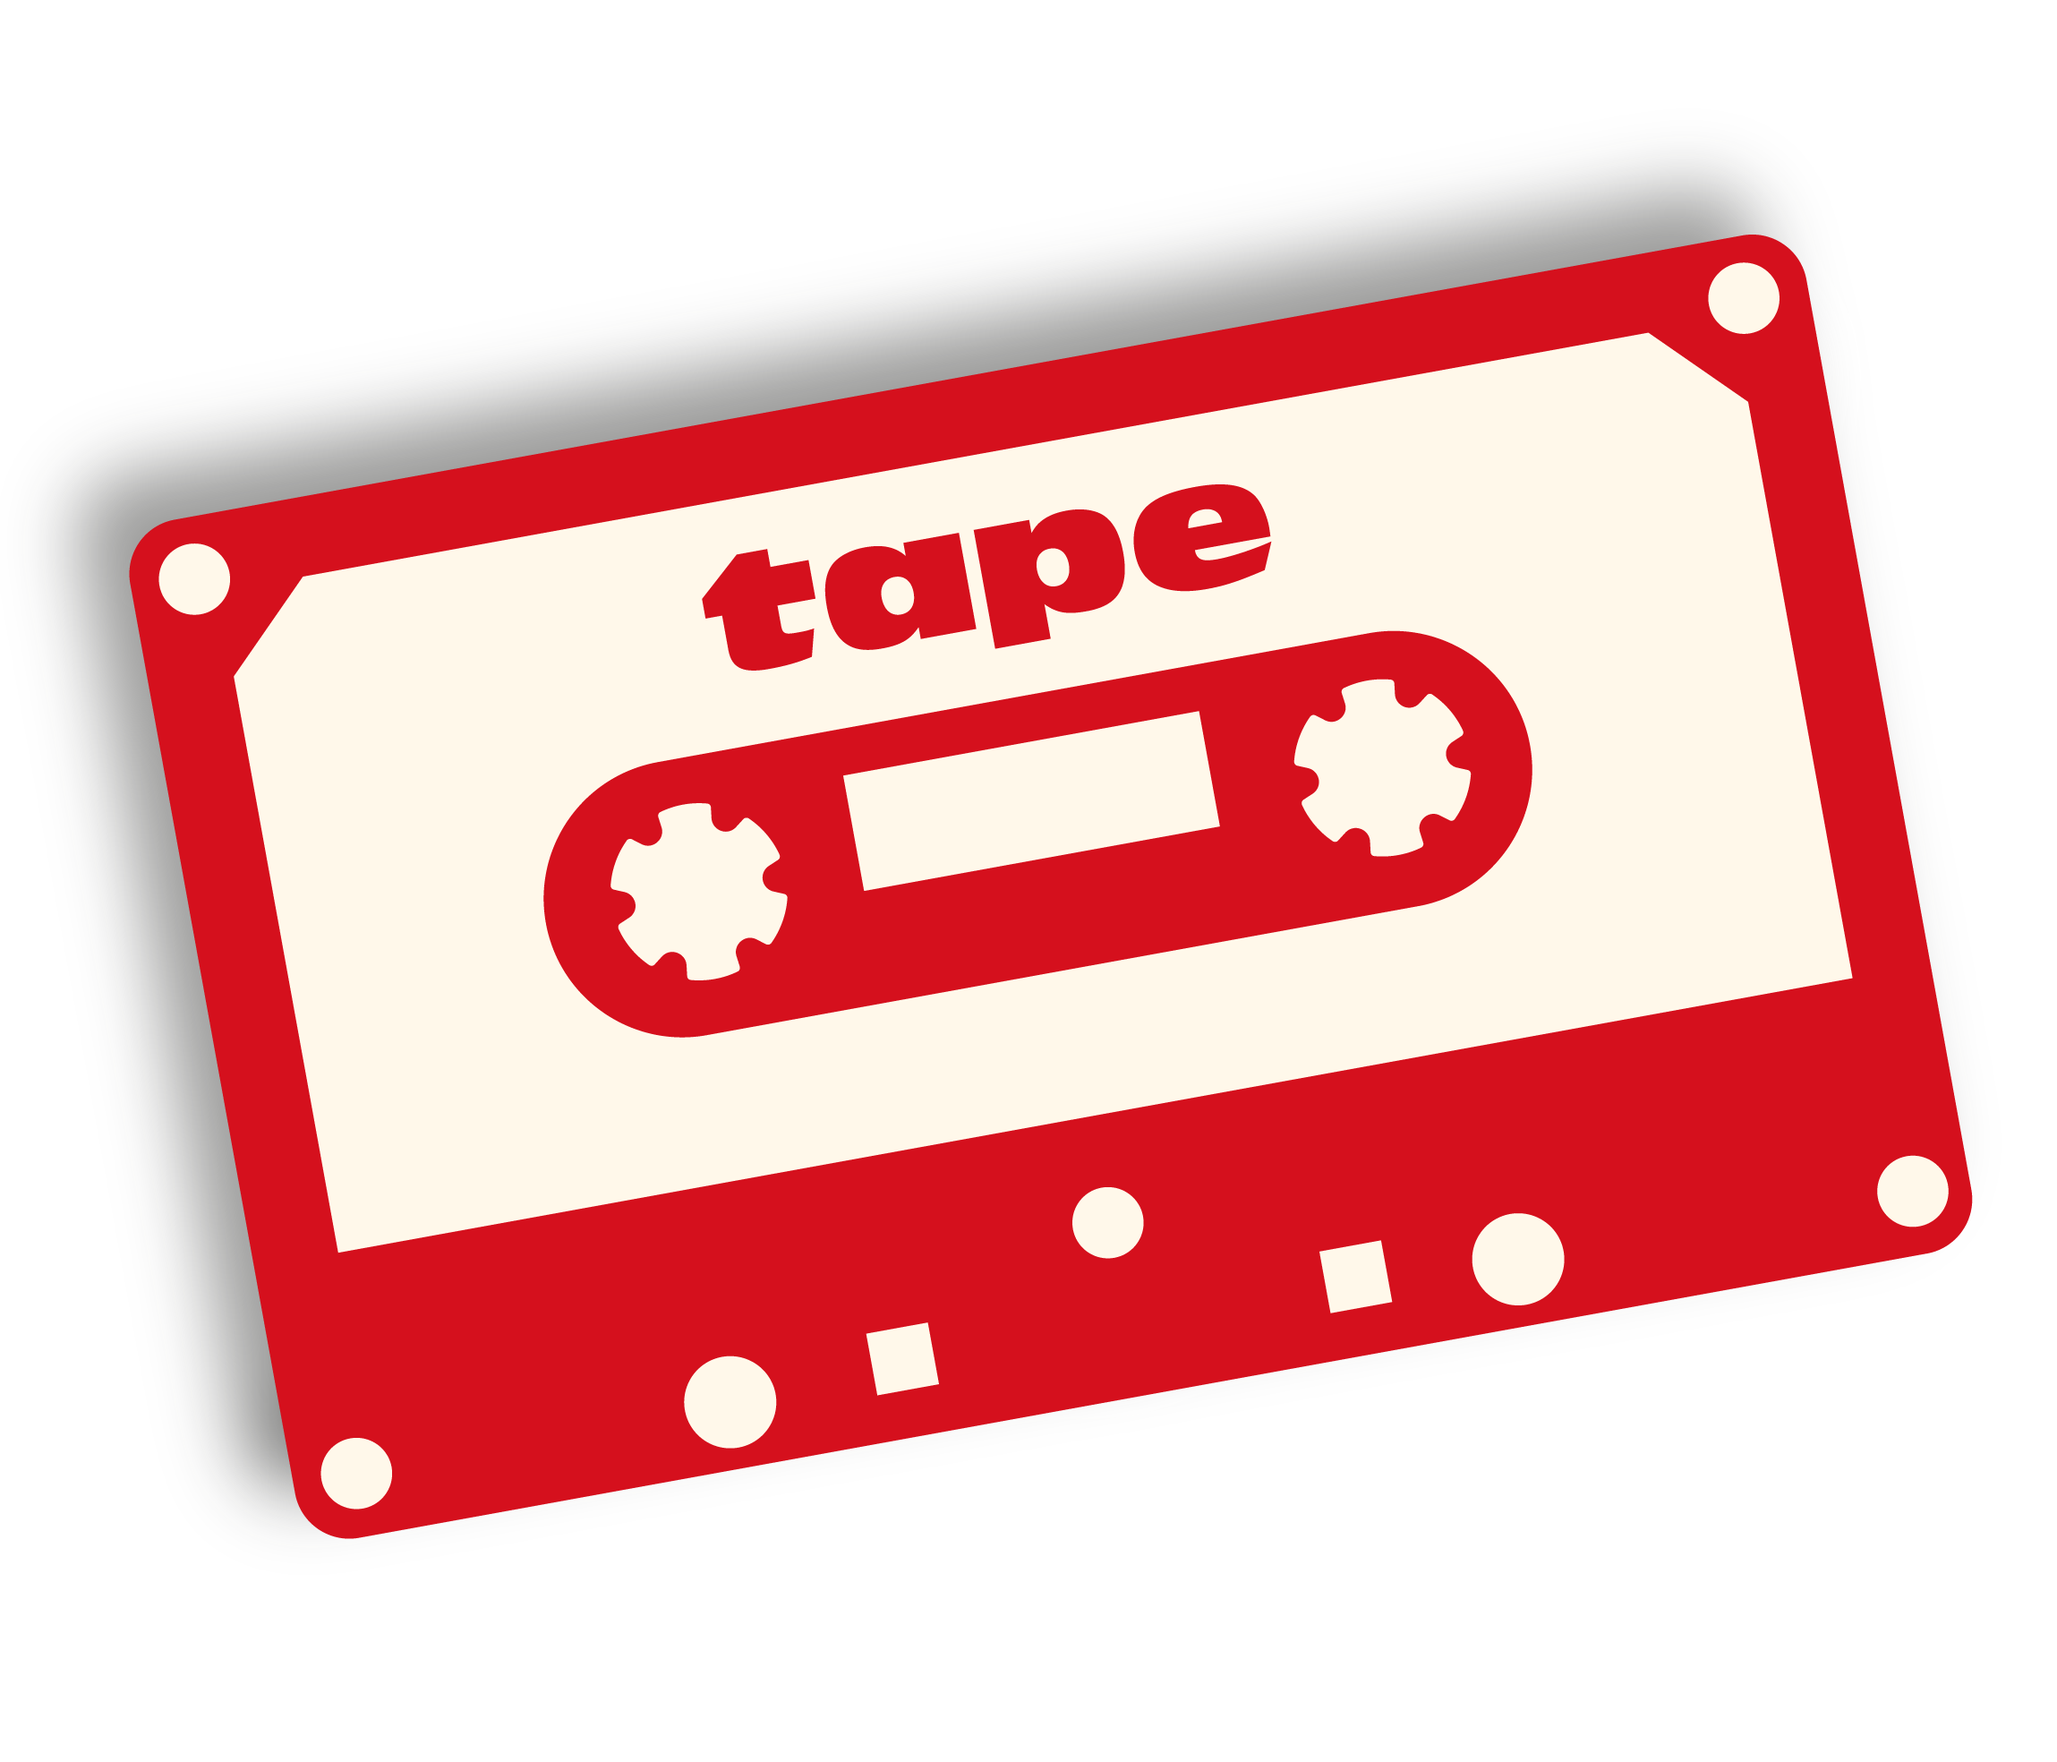
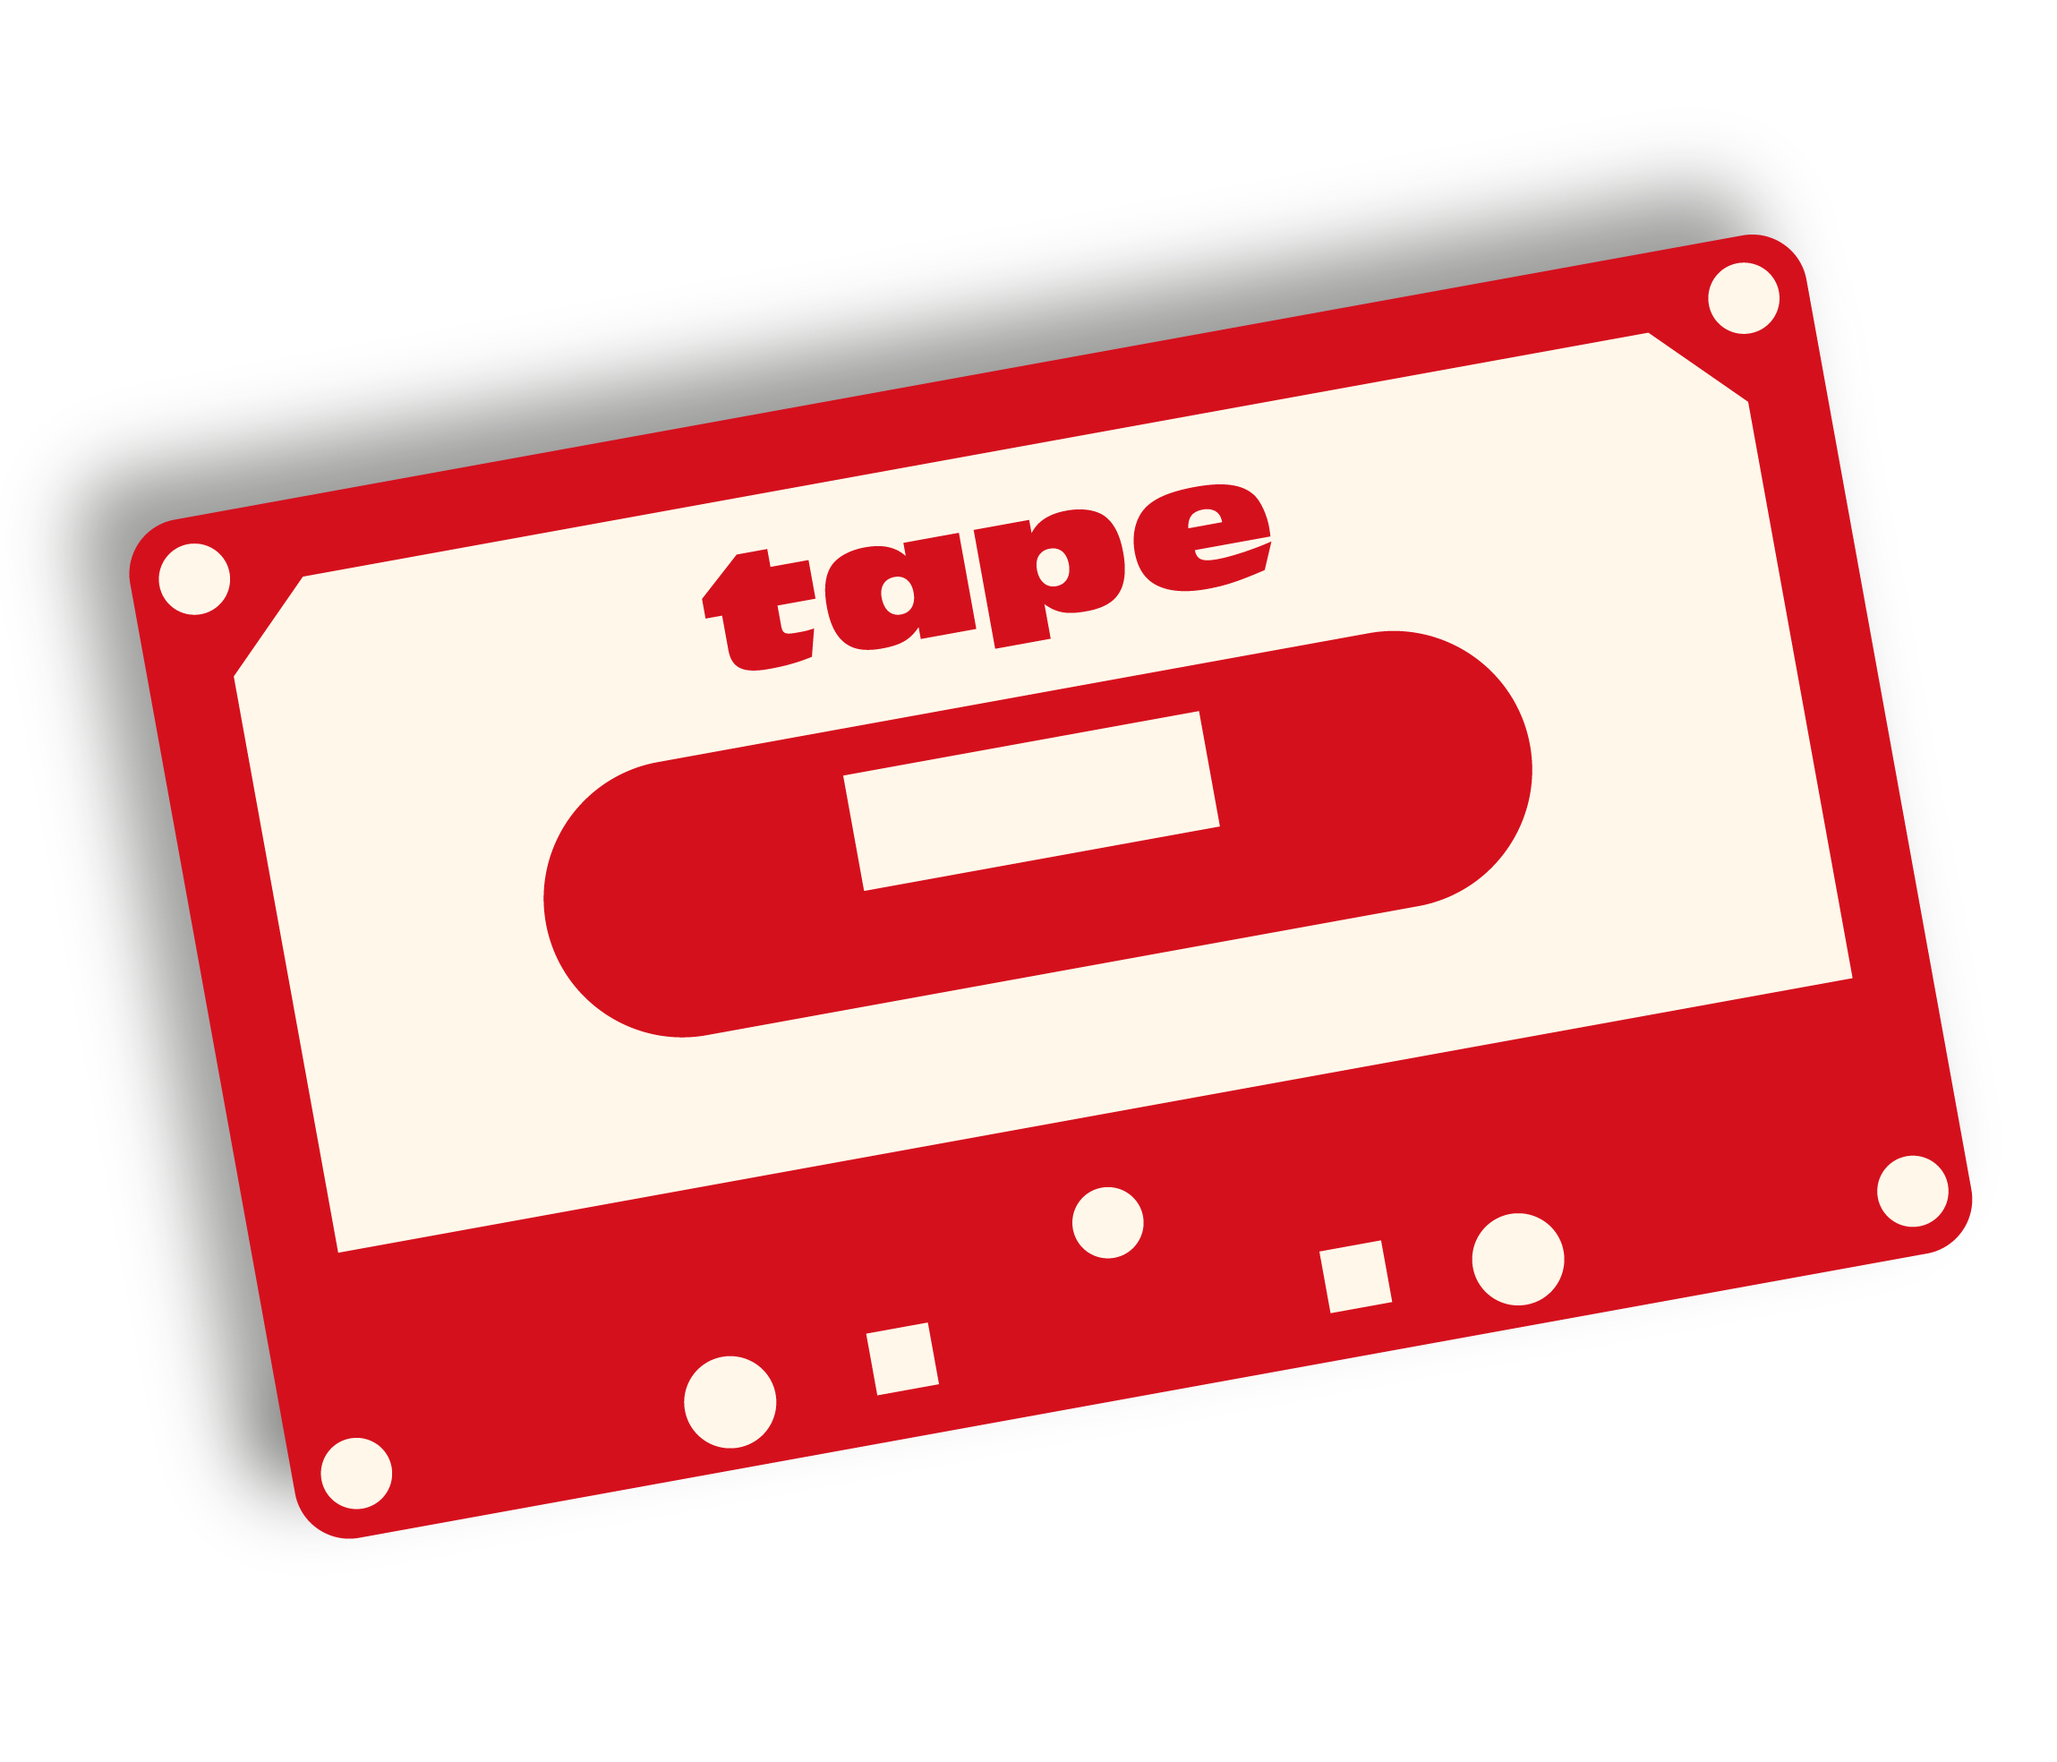
ruedas en tape

Changed region(s): [[0.2781, 0.4339, 0.4017, 0.5579], [0.6179, 0.372, 0.7106, 0.4959]]

diff --git a/src/components/portfolio/Portfolio.jsx b/src/components/portfolio/Portfolio.jsx
@@ -6,11 +6,11 @@ import portfolio3 from "../../assets/portfolio3.png";
 import portfolio4 from "../../assets/portfolio4.png";
 import portfolio5 from "../../assets/portfolio1.png";
 import cassete from "../../assets/cassete.png";
+import cassetteRueda from "../../assets/ruedaCassette.png";
 
 const Portfolio = () => {
   const sectionRef = useRef(null);
   const [inView, setInView] = useState(false);
-  console.log(inView);
 
   useEffect(() => {
     const observer = new IntersectionObserver(
@@ -35,6 +35,12 @@ const Portfolio = () => {
       <div className="portfolio__container">
         <div className="cassete">
           <img src={cassete.src} alt="cassete" className="image" />
+
+          <div className="cassetteRueda">
+            <img src={cassetteRueda.src} alt="cassette rueda" className="imageRueda" />
+            <img src={cassetteRueda.src} alt="cassette rueda" className="imageRueda" />
+          </div>
+
         </div>
         <div className={`fondo ${inView ? "animate" : ""}`}>
           <div className="imageContainer">

diff --git a/src/components/portfolio/portfolio.css b/src/components/portfolio/portfolio.css
@@ -50,6 +50,38 @@
   object-fit: contain;
   
 }
+.cassetteRueda{
+  position: absolute;
+  top: 50%;
+  left: 50%;
+  transform: translate(-50%, -50%);
+  width: 210px;
+  height: fit-content;
+  
+  display: flex;
+  align-items: center;
+  justify-content: space-between;
+  pointer-events: none;
+  rotate: -10deg;
+  margin-left: 15px;
+  
+  padding-bottom: 60px;
+}
+
+.cassetteRueda .imageRueda { 
+  width: 60px;
+  height: 60px;
+  object-fit: contain;
+}
+
+.portfolio__container:hover .cassetteRueda .imageRueda {
+  animation: spin 2s linear infinite;
+}
+
+@keyframes spin {
+  from { transform: rotate(0deg); }
+  to { transform: rotate(360deg); }
+}
 .frente {
   z-index: 3;
   height: 100%;
